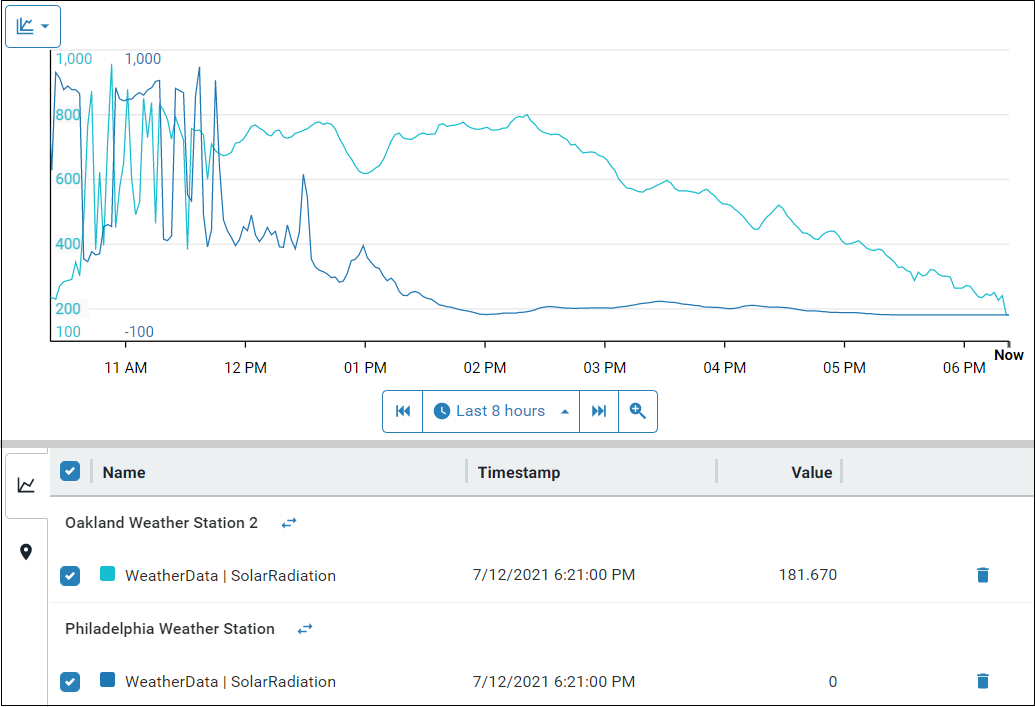
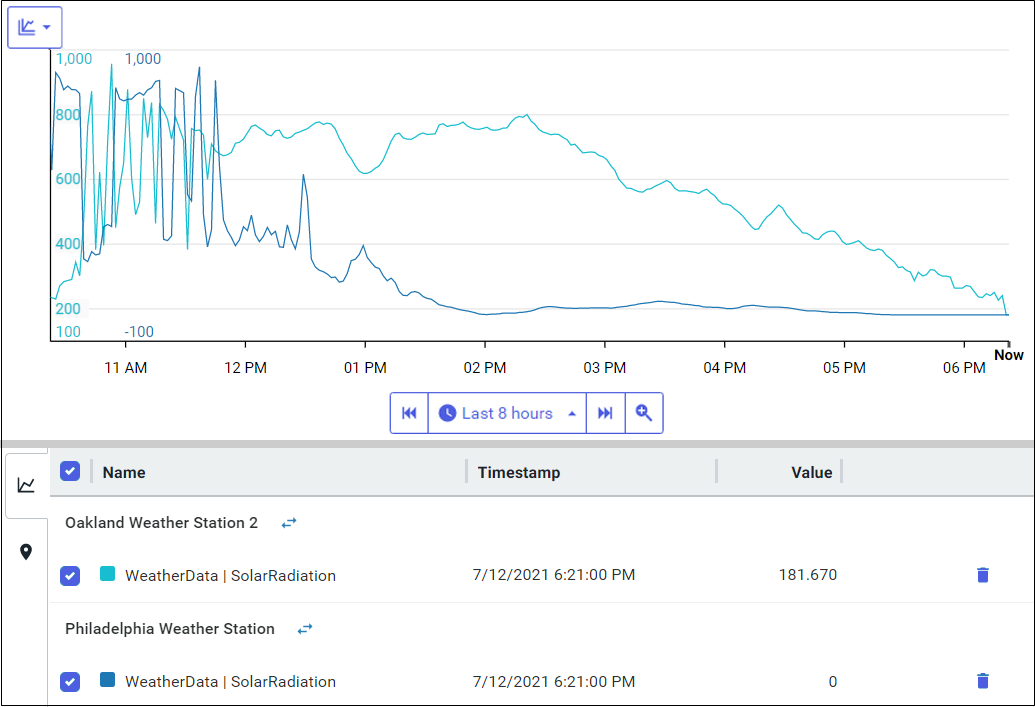
Updates to images to reflect new UI branding

diff --git a/content/visualize-data/context-switch.md b/content/visualize-data/context-switch.md
@@ -22,15 +22,11 @@ Follow this procedure to switch assets in a trend:
 
 1. Click the ![Swap asset icon](images/swap-asset-icon.png) icon next to the asset name in the legend table to open the `Swap Asset` window. 
 
-   The `Swap Asset` window displays a list of assets of the same asset type. In the screen capture below, the listed assets are of the same asset type as the `Philadelphia Weather Station` asset. All assets are created with the `Weather Station` asset type.
-
-   ![Swap Asset dialog](images/swap-asset-dialog.png)
+   **Note:** The `Swap Asset` window displays a list of assets of the same asset type.
 
 1. Select the asset to view and click **Continue**.
 
-   The `Trend` page replaces the traces of the original asset with the new asset. The screen capture below shows that the `Philadelphia Weather station` is replaced with the `Oakland Weather Station 2` asset. The three traces that were previously displayed for the `Philadelphia Weather station` are now displayed for the `Oakland Weather Station 2` asset. 
-
-   ![Switched asset in trend](images/asset-swap.png)
+   **Note:** The `Trend` page replaces the traces of the original asset with the new asset.
 
 ## Asset switch in performance testing
 
